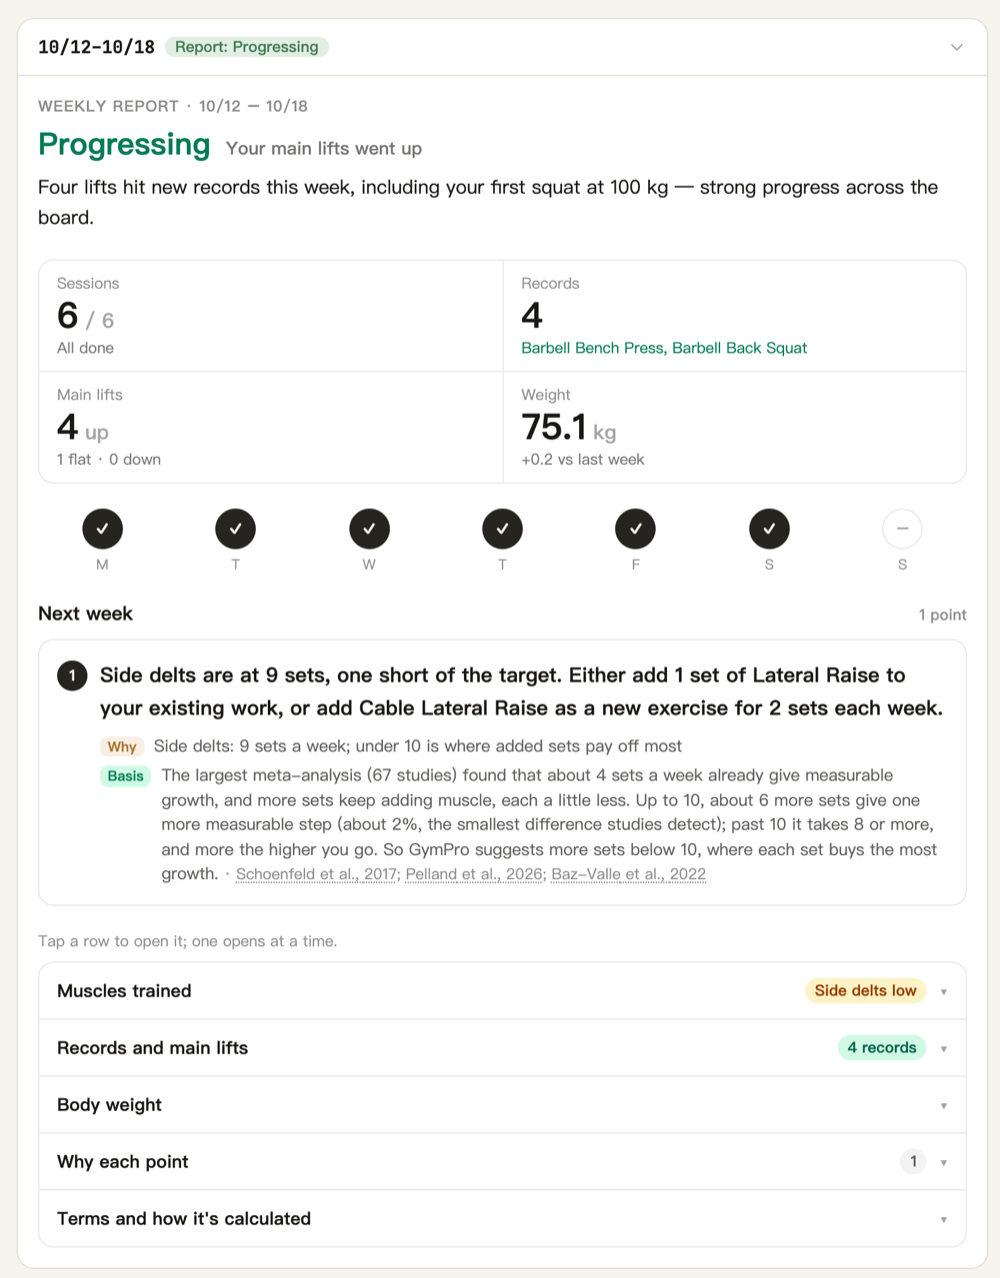
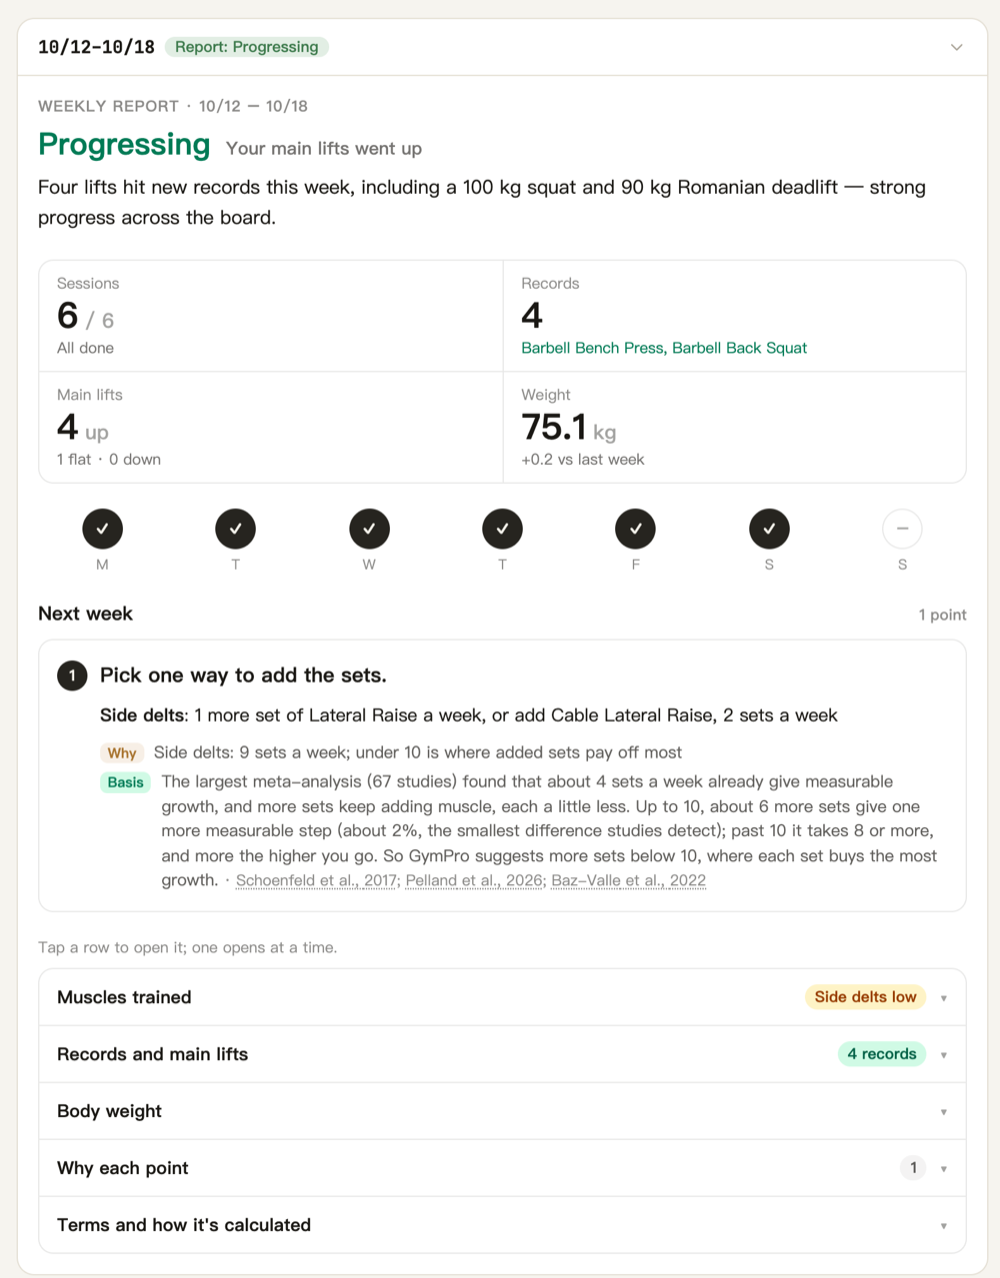
README: the report's low-volume advice as code writes it now
The report screenshot is the demo account's report made again by the
new Lambda (#65): code's lead and a line for the side delts. The report
steps say code writes the low-volume advice, and the eval table has a
row for it: Chinese advice from 90-157 characters to 10-40, and the
grade passing wording that read badly until code wrote it.

diff --git a/README.md b/README.md
@@ -114,7 +114,7 @@ flowchart LR
 
 1. **Facts:** the numbers are computed in code. That covers sets per muscle, with half sets for secondary muscles, estimated 1RM trends, missed sessions, body weight and cardio minutes.
 2. **Rules:** a rule table fires on those facts, for example deload, regression, stall, low volume, missed sessions, weight trend, and cardio before legs. For low volume, code also picks the exercises to add the sets with.
-3. **Words:** Claude Sonnet 4.6 phrases only the rules that fired.
+3. **Words:** Claude Sonnet 4.6 phrases only the rules that fired. Low-volume advice is the exception: code writes it, a line per muscle with its options, and the model adds one sentence only when the user's note bears on them.
    - Code checks the text before it's saved: Traditional, not Simplified, characters; punctuation; no Markdown; the user's weight unit; headline length; and that each action names every finding of its rule.
    - A failure is retried with the specific error.
    - After two failures, a code template is used.
@@ -147,6 +147,7 @@ flowchart LR
 | Embed the muscles too? | Held-out hit@1 55% → 70%, MRR 0.73 → 0.81 (hit@5 95% → 90%) | Shipped |
 | Ronnie called an exercise still to come "already done" | 5/8 → 8/8, with a code check instead of more prompt | The check is in code ([#62](https://github.com/Yung-Chi-Wu/gympro/pull/62)) |
 | Reports misread cardio sessions | 12/15 → 15/15 after rewriting how sessions reach the model | Shipped |
+| Low-volume advice ran long (four muscles in one paragraph) | Chinese advice 90–157 characters → 10–40, 18/18. The grade passed wording that read badly in two prompt rewrites (v11, v12). | Code writes the advice; the model only fits it to a note ([#65](https://github.com/Yung-Chi-Wu/gympro/pull/65)) |
 
 When an eval fails, the fix goes into code, tool design or tool results before the prompt. Evals are also used to delete prompt rules safely.
 
